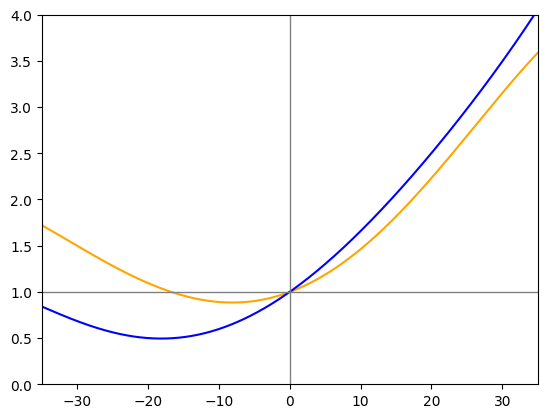
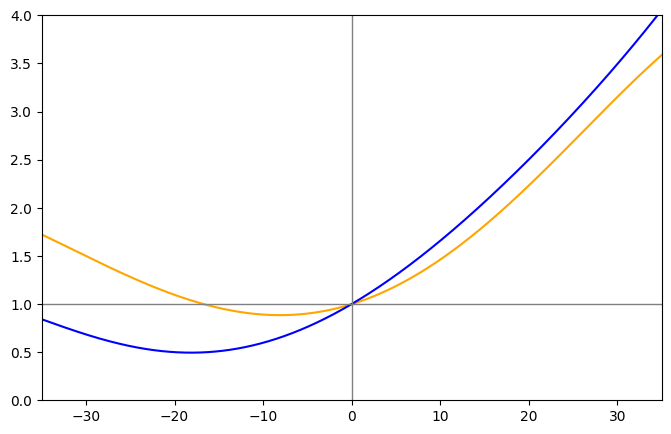
Built site for gh-pages

diff --git a/grade-adjusted-pace.html b/grade-adjusted-pace.html
@@ -126,56 +126,48 @@ pre > code.sourceCode > span > a:first-child::before { text-decoration: underlin
 
 </header>
 
-<div class="cell" data-execution_count="1">
-<div class="sourceCode cell-code" id="cb1"><pre class="sourceCode python code-with-copy"><code class="sourceCode python"><span id="cb1-1"><a href="#cb1-1" aria-hidden="true" tabindex="-1"></a><span class="im">from</span> dotenv <span class="im">import</span> load_dotenv</span>
-<span id="cb1-2"><a href="#cb1-2" aria-hidden="true" tabindex="-1"></a></span>
-<span id="cb1-3"><a href="#cb1-3" aria-hidden="true" tabindex="-1"></a>load_dotenv()</span></code><button title="Copy to Clipboard" class="code-copy-button"><i class="bi"></i></button></pre></div>
-<div class="cell-output cell-output-display" data-execution_count="1">
-<pre><code>True</code></pre>
-</div>
-</div>
-<div class="cell" data-execution_count="2">
-<div class="sourceCode cell-code" id="cb3"><pre class="sourceCode python code-with-copy"><code class="sourceCode python"><span id="cb3-1"><a href="#cb3-1" aria-hidden="true" tabindex="-1"></a><span class="im">import</span> os</span>
-<span id="cb3-2"><a href="#cb3-2" aria-hidden="true" tabindex="-1"></a></span>
-<span id="cb3-3"><a href="#cb3-3" aria-hidden="true" tabindex="-1"></a><span class="im">import</span> matplotlib.pyplot <span class="im">as</span> plt</span>
-<span id="cb3-4"><a href="#cb3-4" aria-hidden="true" tabindex="-1"></a><span class="im">import</span> numpy <span class="im">as</span> np</span>
-<span id="cb3-5"><a href="#cb3-5" aria-hidden="true" tabindex="-1"></a><span class="im">import</span> pandas <span class="im">as</span> pd</span></code><button title="Copy to Clipboard" class="code-copy-button"><i class="bi"></i></button></pre></div>
-</div>
-<p>While exploring my personal activity data lake, I found that Strava seemed to be applying the grade adjustment factor to <em>distance</em>, not to <em>pace</em>. That made me wonder if their conceptual model of “running difficulty” was similar to the “cost of running” model used in [[Minetti (2002)]]. In that paper, the “cost” of running was given in terms of energy consumed by the human body, per unit distance, per unit mass. In other words, the units of this quantity are calories per kilogram per kilometer. When choosing a model to assume for my reverse-engineered product, I figured the simpler the better. The embedded assumptions in this model are: - The cost of running depends on grade, but is independent of speed. - Every person’s cost of running curve looks exactly the same. For a given slope, every person spends the same amount of energy (per unit body mass) to cover a mile.</p>
+<section id="what-is-grade-adjusted-pace" class="level2">
+<h2 class="anchored" data-anchor-id="what-is-grade-adjusted-pace">What is Grade Adjusted Pace?</h2>
+<p>Grade Adjusted Pace (GAP) is a proprietary data product from Strava. Here is a high-level summary from <a href="https://support.strava.com/hc/en-us/articles/216917067-Grade-Adjusted-Pace-GAP-">Strava support</a>:</p>
+<blockquote class="blockquote">
+<p>Grade Adjusted Pace takes into account the steepness of terrain during your runs and estimates an equivalent pace on flat land. Because running uphill requires extra work, your Grade Adjusted Pace on ascents will be faster than your actual pace. Similarly, when running downhill, your Grade Adjusted Pace will tend to be slower than your actual pace.</p>
+</blockquote>
+<p>In a <a href="https://medium.com/strava-engineering/an-improved-gap-model-8b07ae8886c3">2017 post on Strava’s engineering blog</a>, Drew Robb explains that Strava had updated its GAP model. In the old version, based on a <a href="https://pubmed.ncbi.nlm.nih.gov/12183501/">2002 study by Alberto Minetti et al</a>, the runner’s rate of energy consumption was used as a proxy for effort. The new model was arrived at using Big Data™, pooling the data from millions of Strava users, and expressing effort in terms of heart rate.</p>
+<p>Setting aside the why and how, let’s look at the <em>what</em>: the grade adjustment factor itself.</p>
+<p><img src="https://miro.medium.com/v2/resize:fit:1100/format:webp/1*_TwofsNS872wbUS12ykKPQ.png" class="img-fluid"></p>
+<p>Compared to the old energy-consumption-based adjustment factor (blue), the new heart-rate-based adjustment factor (solid orange) gives <strong>much</strong> more credit to downhill running in general. The pace reduction does not dip as low, and it rebounds at a shallower grade; at just 18% downhill, Strava’s latest GAP factor claims that the adjusted pace should be <em>faster</em> than actual pace. On the other side of the coin, for uphill grades (the right half of the chart) the new adjustment factor assigns a <em>lower</em> effort than the old one.</p>
+<p>While exploring my personal activity data lake, I found that Strava seemed to be applying the grade adjustment factor to <em>distance</em>, not to <em>pace</em>. That made me wonder if their conceptual model of “running difficulty” was similar to the “cost of running” model used in Minetti (2002). In that paper, the “cost” of running was given in terms of energy consumed by the human body, per unit distance, per unit mass. In other words, the units of this quantity are calories per kilogram per kilometer. When choosing a model to assume for my reverse-engineered product, I figured the simpler the better. The embedded assumptions in this model are: - The cost of running depends on grade, but is independent of speed. - Every person’s cost of running curve looks exactly the same. For a given slope, every person spends the same amount of energy (per unit body mass) to cover a mile.</p>
 <p>If either of these assumptions sounds absurd, remember: the cost of running is in terms of body mass and distance covered. In order to model how much energy a person consumes getting from A to B, the cost of running gets multiplied by the individual’s body mass. And in order to determine the individual’s rate of energy consumption, the quantity is divided by time; to cover A to B in a very short time, a very high burn rate is required.</p>
 <p>Here is the equation:</p>
-<p><span class="math display">\[C_r(i) = 155.4i^5 - 30.4i^4 -43.3i^3 + 46.3i^2 + 19.5i + 3.6\]</span></p>
-<div class="cell" data-execution_count="3">
-<div class="sourceCode cell-code" id="cb4"><pre class="sourceCode python code-with-copy"><code class="sourceCode python"><span id="cb4-1"><a href="#cb4-1" aria-hidden="true" tabindex="-1"></a><span class="im">from</span> specialsauce.sources.minetti <span class="im">import</span> cost_of_running</span></code><button title="Copy to Clipboard" class="code-copy-button"><i class="bi"></i></button></pre></div>
+<p><span class="math display">\[C_r(g) = 155.4g^5 - 30.4g^4 -43.3g^3 + 46.3g^2 + 19.5g + 3.6\]</span></p>
+<div class="cell" data-execution_count="1">
+<div class="sourceCode cell-code" id="cb1"><pre class="sourceCode python code-with-copy"><code class="sourceCode python"><span id="cb1-1"><a href="#cb1-1" aria-hidden="true" tabindex="-1"></a><span class="im">import</span> matplotlib.pyplot <span class="im">as</span> plt</span>
+<span id="cb1-2"><a href="#cb1-2" aria-hidden="true" tabindex="-1"></a><span class="im">import</span> numpy <span class="im">as</span> np</span>
+<span id="cb1-3"><a href="#cb1-3" aria-hidden="true" tabindex="-1"></a><span class="im">from</span> specialsauce.sources.minetti <span class="im">import</span> cost_of_running</span></code><button title="Copy to Clipboard" class="code-copy-button"><i class="bi"></i></button></pre></div>
 </div>
-<div class="cell" data-execution_count="4">
-<div class="sourceCode cell-code" id="cb5"><pre class="sourceCode python code-with-copy"><code class="sourceCode python"><span id="cb5-1"><a href="#cb5-1" aria-hidden="true" tabindex="-1"></a>gradient_array <span class="op">=</span> np.linspace(<span class="op">-</span><span class="fl">0.45</span>, <span class="fl">0.45</span>, <span class="dv">100</span>)</span>
-<span id="cb5-2"><a href="#cb5-2" aria-hidden="true" tabindex="-1"></a>plt.plot(gradient_array, cost_of_running(gradient_array))</span>
-<span id="cb5-3"><a href="#cb5-3" aria-hidden="true" tabindex="-1"></a>plt.axhline(<span class="fl">0.0</span>, color<span class="op">=</span><span class="st">'gray'</span>, linewidth<span class="op">=</span><span class="dv">1</span>)</span>
-<span id="cb5-4"><a href="#cb5-4" aria-hidden="true" tabindex="-1"></a>plt.axvline(<span class="fl">0.0</span>, color<span class="op">=</span><span class="st">'gray'</span>, linewidth<span class="op">=</span><span class="dv">1</span>)</span>
-<span id="cb5-5"><a href="#cb5-5" aria-hidden="true" tabindex="-1"></a>plt.show()</span></code><button title="Copy to Clipboard" class="code-copy-button"><i class="bi"></i></button></pre></div>
+<div class="cell" data-execution_count="2">
+<div class="sourceCode cell-code" id="cb2"><pre class="sourceCode python code-with-copy"><code class="sourceCode python"><span id="cb2-1"><a href="#cb2-1" aria-hidden="true" tabindex="-1"></a>gradient_array <span class="op">=</span> np.linspace(<span class="op">-</span><span class="fl">0.45</span>, <span class="fl">0.45</span>, <span class="dv">100</span>)</span>
+<span id="cb2-2"><a href="#cb2-2" aria-hidden="true" tabindex="-1"></a>plt.plot(gradient_array, cost_of_running(gradient_array))</span>
+<span id="cb2-3"><a href="#cb2-3" aria-hidden="true" tabindex="-1"></a>plt.axhline(<span class="fl">0.0</span>, color<span class="op">=</span><span class="st">'gray'</span>, linewidth<span class="op">=</span><span class="dv">1</span>)</span>
+<span id="cb2-4"><a href="#cb2-4" aria-hidden="true" tabindex="-1"></a>plt.axvline(<span class="fl">0.0</span>, color<span class="op">=</span><span class="st">'gray'</span>, linewidth<span class="op">=</span><span class="dv">1</span>)</span>
+<span id="cb2-5"><a href="#cb2-5" aria-hidden="true" tabindex="-1"></a>plt.show()</span></code><button title="Copy to Clipboard" class="code-copy-button"><i class="bi"></i></button></pre></div>
 <div class="cell-output cell-output-display">
-<p><img src="grade-adjusted-pace_files/figure-html/cell-5-output-1.png" class="img-fluid"></p>
+<p><img src="grade-adjusted-pace_files/figure-html/cell-3-output-1.png" class="img-fluid"></p>
 </div>
 </div>
-<p>When considering what form to assume for Strava’s grade adjustment factor function, I figured it would be desirable to use the same form as [[Minetti (2002)]]. The general form of that equation is</p>
-<p><span class="math display">\[
-f(g) = \Sigma_0^5 c_i  g^i
-\]</span></p>
-<p>Just a fifth-order polynomial, where <span class="math inline">\(g\)</span> is decimal grade.</p>
 <p>I have a hunch that Strava’s <em>old</em> Grade Adjusted Pace product was based on using the Minetti equation to compute a ratio of the cost of running on a slope to the cost of running on flat ground:</p>
 <p><span class="math display">\[
   f(g) = c_r(g) / c_r(0)
 \]</span></p>
-<div class="cell" data-execution_count="5">
-<div class="sourceCode cell-code" id="cb6"><pre class="sourceCode python code-with-copy"><code class="sourceCode python"><span id="cb6-1"><a href="#cb6-1" aria-hidden="true" tabindex="-1"></a>adjustment_factor_array <span class="op">=</span> cost_of_running(gradient_array) <span class="op">/</span> cost_of_running(<span class="fl">0.0</span>)</span>
-<span id="cb6-2"><a href="#cb6-2" aria-hidden="true" tabindex="-1"></a></span>
-<span id="cb6-3"><a href="#cb6-3" aria-hidden="true" tabindex="-1"></a>plt.axhline(<span class="fl">1.0</span>, color<span class="op">=</span><span class="st">'gray'</span>, linewidth<span class="op">=</span><span class="dv">1</span>)</span>
-<span id="cb6-4"><a href="#cb6-4" aria-hidden="true" tabindex="-1"></a>plt.axvline(<span class="fl">0.0</span>, color<span class="op">=</span><span class="st">'gray'</span>, linewidth<span class="op">=</span><span class="dv">1</span>)</span>
-<span id="cb6-5"><a href="#cb6-5" aria-hidden="true" tabindex="-1"></a>plt.plot(gradient_array, adjustment_factor_array)</span>
-<span id="cb6-6"><a href="#cb6-6" aria-hidden="true" tabindex="-1"></a>plt.show()</span></code><button title="Copy to Clipboard" class="code-copy-button"><i class="bi"></i></button></pre></div>
+<div class="cell" data-execution_count="3">
+<div class="sourceCode cell-code" id="cb3"><pre class="sourceCode python code-with-copy"><code class="sourceCode python"><span id="cb3-1"><a href="#cb3-1" aria-hidden="true" tabindex="-1"></a>adjustment_factor_array <span class="op">=</span> cost_of_running(gradient_array) <span class="op">/</span> cost_of_running(<span class="fl">0.0</span>)</span>
+<span id="cb3-2"><a href="#cb3-2" aria-hidden="true" tabindex="-1"></a></span>
+<span id="cb3-3"><a href="#cb3-3" aria-hidden="true" tabindex="-1"></a>plt.axhline(<span class="fl">1.0</span>, color<span class="op">=</span><span class="st">'gray'</span>, linewidth<span class="op">=</span><span class="dv">1</span>)</span>
+<span id="cb3-4"><a href="#cb3-4" aria-hidden="true" tabindex="-1"></a>plt.axvline(<span class="fl">0.0</span>, color<span class="op">=</span><span class="st">'gray'</span>, linewidth<span class="op">=</span><span class="dv">1</span>)</span>
+<span id="cb3-5"><a href="#cb3-5" aria-hidden="true" tabindex="-1"></a>plt.plot(gradient_array, adjustment_factor_array)</span>
+<span id="cb3-6"><a href="#cb3-6" aria-hidden="true" tabindex="-1"></a>plt.show()</span></code><button title="Copy to Clipboard" class="code-copy-button"><i class="bi"></i></button></pre></div>
 <div class="cell-output cell-output-display">
-<p><img src="grade-adjusted-pace_files/figure-html/cell-6-output-1.png" class="img-fluid"></p>
+<p><img src="grade-adjusted-pace_files/figure-html/cell-4-output-1.png" class="img-fluid"></p>
 </div>
 </div>
 <p>…and I think it would be intuitive to calculate adjusted point-to-point distance like: <span class="math display">\[
@@ -183,20 +175,32 @@ f(g) = \Sigma_0^5 c_i  g^i
 \]</span></p>
 <p>In words, that means that the adjusted distance from A to B is a function of the grade at point A.</p>
 <p>I want to fit a similar curve to Strava’s “grade adjustment factor” (my term). So how can I make it happen, using the data I have at my fingertips?</p>
+</section>
 <section id="the-data" class="level2">
 <h2 class="anchored" data-anchor-id="the-data">The data</h2>
+<p><em>…cracks knuckles…</em></p>
+<div class="cell" data-execution_count="4">
+<div class="sourceCode cell-code" id="cb4"><pre class="sourceCode python code-with-copy"><code class="sourceCode python"><span id="cb4-1"><a href="#cb4-1" aria-hidden="true" tabindex="-1"></a><span class="im">import</span> os</span>
+<span id="cb4-2"><a href="#cb4-2" aria-hidden="true" tabindex="-1"></a></span>
+<span id="cb4-3"><a href="#cb4-3" aria-hidden="true" tabindex="-1"></a><span class="im">import</span> pandas <span class="im">as</span> pd</span></code><button title="Copy to Clipboard" class="code-copy-button"><i class="bi"></i></button></pre></div>
+</div>
+<div class="cell" data-execution_count="5">
+<div class="sourceCode cell-code" id="cb5"><pre class="sourceCode python code-with-copy"><code class="sourceCode python"><span id="cb5-1"><a href="#cb5-1" aria-hidden="true" tabindex="-1"></a><span class="im">from</span> dotenv <span class="im">import</span> load_dotenv</span>
+<span id="cb5-2"><a href="#cb5-2" aria-hidden="true" tabindex="-1"></a></span>
+<span id="cb5-3"><a href="#cb5-3" aria-hidden="true" tabindex="-1"></a>load_dotenv()</span></code><button title="Copy to Clipboard" class="code-copy-button"><i class="bi"></i></button></pre></div>
+<div class="cell-output cell-output-display" data-execution_count="5">
+<pre><code>True</code></pre>
+</div>
+</div>
 <section id="time-series-from-the-strava-api" class="level3">
 <h3 class="anchored" data-anchor-id="time-series-from-the-strava-api">Time series from the Strava API</h3>
 <p>I have access to all the time series data for my Strava activities, going back to 2019. In this private dataset, there are over 2.5 million samples, each representing an observation recorded on my activity tracker (a GPS watch). Each observation corresponds to a discrete point in time, and contains a number of variables:</p>
 <div class="cell" data-execution_count="6">
-<div class="sourceCode cell-code" id="cb7"><pre class="sourceCode python code-with-copy"><code class="sourceCode python"><span id="cb7-1"><a href="#cb7-1" aria-hidden="true" tabindex="-1"></a><span class="im">import</span> os</span>
-<span id="cb7-2"><a href="#cb7-2" aria-hidden="true" tabindex="-1"></a><span class="im">import</span> pandas <span class="im">as</span> pd</span>
-<span id="cb7-3"><a href="#cb7-3" aria-hidden="true" tabindex="-1"></a></span>
-<span id="cb7-4"><a href="#cb7-4" aria-hidden="true" tabindex="-1"></a><span class="kw">def</span> load_timeseries_data():</span>
-<span id="cb7-5"><a href="#cb7-5" aria-hidden="true" tabindex="-1"></a>    csv_file_path <span class="op">=</span> os.getenv(<span class="st">'CSV_FILE_PATH'</span>)</span>
-<span id="cb7-6"><a href="#cb7-6" aria-hidden="true" tabindex="-1"></a>    <span class="cf">return</span> pd.read_csv(csv_file_path,</span>
-<span id="cb7-7"><a href="#cb7-7" aria-hidden="true" tabindex="-1"></a>                       parse_dates<span class="op">=</span>[<span class="st">'timestamp'</span>],</span>
-<span id="cb7-8"><a href="#cb7-8" aria-hidden="true" tabindex="-1"></a>                       index_col<span class="op">=</span>[<span class="st">'id'</span>, <span class="st">'timestamp'</span>])</span></code><button title="Copy to Clipboard" class="code-copy-button"><i class="bi"></i></button></pre></div>
+<div class="sourceCode cell-code" id="cb7"><pre class="sourceCode python code-with-copy"><code class="sourceCode python"><span id="cb7-1"><a href="#cb7-1" aria-hidden="true" tabindex="-1"></a><span class="kw">def</span> load_timeseries_data():</span>
+<span id="cb7-2"><a href="#cb7-2" aria-hidden="true" tabindex="-1"></a>    csv_file_path <span class="op">=</span> os.getenv(<span class="st">'CSV_FILE_PATH'</span>)</span>
+<span id="cb7-3"><a href="#cb7-3" aria-hidden="true" tabindex="-1"></a>    <span class="cf">return</span> pd.read_csv(csv_file_path,</span>
+<span id="cb7-4"><a href="#cb7-4" aria-hidden="true" tabindex="-1"></a>                       parse_dates<span class="op">=</span>[<span class="st">'timestamp'</span>],</span>
+<span id="cb7-5"><a href="#cb7-5" aria-hidden="true" tabindex="-1"></a>                       index_col<span class="op">=</span>[<span class="st">'id'</span>, <span class="st">'timestamp'</span>])</span></code><button title="Copy to Clipboard" class="code-copy-button"><i class="bi"></i></button></pre></div>
 </div>
 <div class="cell" data-execution_count="7">
 <div class="sourceCode cell-code" id="cb8"><pre class="sourceCode python code-with-copy"><code class="sourceCode python"><span id="cb8-1"><a href="#cb8-1" aria-hidden="true" tabindex="-1"></a>panel_ts_df <span class="op">=</span> load_timeseries_data()</span>
@@ -361,19 +365,20 @@ Name: Grade Adjusted Distance, dtype: float64</code></pre>
 <section id="comparing-the-result-to-ground-truth" class="level2">
 <h2 class="anchored" data-anchor-id="comparing-the-result-to-ground-truth">Comparing the result to ground truth</h2>
 <p>In Strava’s blog post <a href="https://medium.com/strava-engineering/an-improved-gap-model-8b07ae8886c3">An Improved GAP Model</a>, there is a graph comparing their “improved” grade adjustment factor to their old one based on [[Minetti (2002)]]. I’ll create my own version of this graph, using the two adjustment factor models from my analysis.</p>
-<div class="cell" data-execution_count="18">
+<div class="cell" data-execution_count="21">
 <div class="sourceCode cell-code" id="cb24"><pre class="sourceCode python code-with-copy"><code class="sourceCode python"><span id="cb24-1"><a href="#cb24-1" aria-hidden="true" tabindex="-1"></a>gradient_array <span class="op">=</span> np.linspace(<span class="op">-</span><span class="dv">35</span>, <span class="dv">35</span>, <span class="dv">1000</span>)</span>
 <span id="cb24-2"><a href="#cb24-2" aria-hidden="true" tabindex="-1"></a>poly <span class="op">=</span> np.polynomial.Polynomial(model.coef_)</span>
 <span id="cb24-3"><a href="#cb24-3" aria-hidden="true" tabindex="-1"></a>factor_model <span class="op">=</span> poly(gradient_array)</span>
 <span id="cb24-4"><a href="#cb24-4" aria-hidden="true" tabindex="-1"></a>factor_minetti <span class="op">=</span> cost_of_running(gradient_array<span class="op">/</span><span class="fl">100.0</span>) <span class="op">/</span> cost_of_running(<span class="fl">0.0</span>)</span>
 <span id="cb24-5"><a href="#cb24-5" aria-hidden="true" tabindex="-1"></a></span>
-<span id="cb24-6"><a href="#cb24-6" aria-hidden="true" tabindex="-1"></a>plt.plot(gradient_array, factor_model, color<span class="op">=</span><span class="st">'orange'</span>)</span>
-<span id="cb24-7"><a href="#cb24-7" aria-hidden="true" tabindex="-1"></a>plt.plot(gradient_array, factor_minetti, color<span class="op">=</span><span class="st">'blue'</span>)</span>
-<span id="cb24-8"><a href="#cb24-8" aria-hidden="true" tabindex="-1"></a>plt.axhline(<span class="fl">1.0</span>, color<span class="op">=</span><span class="st">'gray'</span>, linewidth<span class="op">=</span><span class="dv">1</span>)</span>
-<span id="cb24-9"><a href="#cb24-9" aria-hidden="true" tabindex="-1"></a>plt.axvline(<span class="fl">0.0</span>, color<span class="op">=</span><span class="st">'gray'</span>, linewidth<span class="op">=</span><span class="dv">1</span>)</span>
-<span id="cb24-10"><a href="#cb24-10" aria-hidden="true" tabindex="-1"></a>plt.xlim(<span class="op">-</span><span class="dv">35</span>, <span class="dv">35</span>)</span>
-<span id="cb24-11"><a href="#cb24-11" aria-hidden="true" tabindex="-1"></a>plt.ylim(<span class="dv">0</span>, <span class="dv">4</span>)</span>
-<span id="cb24-12"><a href="#cb24-12" aria-hidden="true" tabindex="-1"></a>plt.show()</span></code><button title="Copy to Clipboard" class="code-copy-button"><i class="bi"></i></button></pre></div>
+<span id="cb24-6"><a href="#cb24-6" aria-hidden="true" tabindex="-1"></a>plt.figure(figsize<span class="op">=</span>(<span class="dv">8</span>, <span class="dv">5</span>))</span>
+<span id="cb24-7"><a href="#cb24-7" aria-hidden="true" tabindex="-1"></a>plt.plot(gradient_array, factor_model, color<span class="op">=</span><span class="st">'orange'</span>)</span>
+<span id="cb24-8"><a href="#cb24-8" aria-hidden="true" tabindex="-1"></a>plt.plot(gradient_array, factor_minetti, color<span class="op">=</span><span class="st">'blue'</span>)</span>
+<span id="cb24-9"><a href="#cb24-9" aria-hidden="true" tabindex="-1"></a>plt.axhline(<span class="fl">1.0</span>, color<span class="op">=</span><span class="st">'gray'</span>, linewidth<span class="op">=</span><span class="dv">1</span>)</span>
+<span id="cb24-10"><a href="#cb24-10" aria-hidden="true" tabindex="-1"></a>plt.axvline(<span class="fl">0.0</span>, color<span class="op">=</span><span class="st">'gray'</span>, linewidth<span class="op">=</span><span class="dv">1</span>)</span>
+<span id="cb24-11"><a href="#cb24-11" aria-hidden="true" tabindex="-1"></a>plt.xlim(<span class="op">-</span><span class="dv">35</span>, <span class="dv">35</span>)</span>
+<span id="cb24-12"><a href="#cb24-12" aria-hidden="true" tabindex="-1"></a>plt.ylim(<span class="dv">0</span>, <span class="dv">4</span>)</span>
+<span id="cb24-13"><a href="#cb24-13" aria-hidden="true" tabindex="-1"></a>plt.show()</span></code><button title="Copy to Clipboard" class="code-copy-button"><i class="bi"></i></button></pre></div>
 <div class="cell-output cell-output-display">
 <p><img src="grade-adjusted-pace_files/figure-html/cell-19-output-1.png" class="img-fluid"></p>
 </div>
